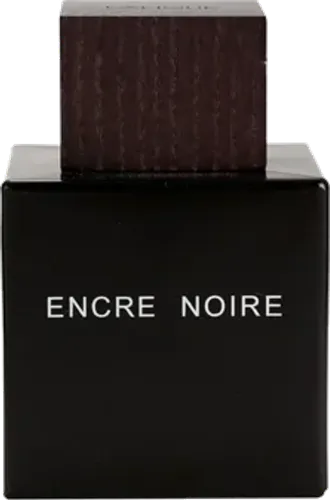
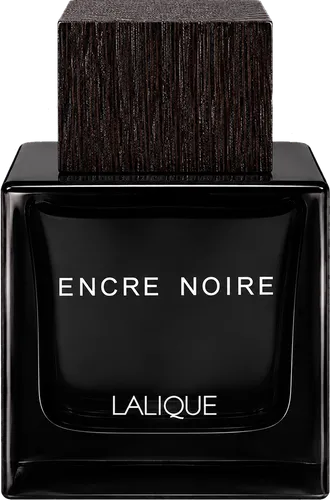
feat(catalogue): use the owner-supplied Encre Noire bottle image (local only)
Swapped in the higher-resolution bottle photo supplied by the owner
(1254x1254) in place of the retailer shot, and re-derived every dependent asset
from it:

* images/bottles/lalique-encre-noire.png - cut out to a transparent PNG. The
  supplied file was fully OPAQUE (alpha 255 everywhere); the apparent
  transparency was only the image viewer's backdrop. Background removal is a
  border flood-fill keyed on light+near-neutral pixels, so the dark bottle
  interior and the light highlights inside the glass are preserved. Trimmed and
  capped at 1024px, as the other cutouts are.
* webp + 500w siblings regenerated. These had to be deleted first: the image
  pipeline only writes when the new file is SMALLER than the existing one, so
  the stale, lower-resolution siblings would otherwise have survived.
* images/og/lalique-encre-noire.jpg regenerated from the new cutout.
* images/bottles/lalique-encre-noire.jpg - the new photo as the source image.
* logos/lalique.png - rebuilt cropped to the wordmark's ink on a 600x600 white
  canvas; webp sibling regenerated.

The brand logo remains a hairline wordmark, which is genuinely how the Lalique
mark looks - it reads faint at the 32x24 card chip. Attempts to synthesise a
heavier version produced speckle artefacts, so the crisp original is kept.

NOT PUSHED - committed locally only, as requested.

Verified: seo-gen idempotent; seo-audit 312 pages 0 failures; playwright 46
[…]

diff --git a/fragrance/lalique-encre-noire.html b/fragrance/lalique-encre-noire.html
@@ -364,7 +364,7 @@
 <body>
 <button type="button" class="page-theme" data-theme-toggle aria-label="Toggle dark mode"><span class="theme-ico theme-ico-moon">☾</span><span class="theme-ico theme-ico-sun">☀</span></button>
 <div class="wrap">
-<nav class="crumbs" aria-label="Breadcrumb"><a href="/">Home</a> <span aria-hidden="true">/</span> <a href="../brands/lalique.html">Lalique</a> <span aria-hidden="true">/</span> <span aria-current="page">Encre Noire</span></nav><div class="top"><div><div class="brand-chip">LALIQUE</div><h1>Lalique Encre Noire Decant in India</h1></div><a href="/">← Full collection</a></div><img class="product-bottle" src="../images/bottles/lalique-encre-noire.webp" alt="Lalique Encre Noire perfume bottle" width="675" height="1024" fetchpriority="high" decoding="async"><p class="lead">Encre Noire by Lalique as an authentic decant — a Woody, Earthy, Ink, Mossy, Smoky, Musk. an original creation. Ships across India with free shipping over ₹999 on 2+ decants.</p><div class="pills"><span class="pill g">Men</span><span class="pill ">In Stock</span></div><div class="card"><h2 style="margin-top:0">Prices (per ml gets cheaper as size grows)</h2><table><thead><tr><th>Size</th><th>Price</th><th>Per ml</th></tr></thead><tbody><tr><td>3ml</td><td class="n">₹119</td><td class="muted">₹40</td></tr><tr><td>5ml</td><td class="n">₹169</td><td class="muted">₹34</td></tr><tr><td>7.5ml</td><td class="n">₹259</td><td class="muted">₹35</td></tr><tr><td>10ml</td><td class="n">₹319</td><td class="muted">₹32</td></tr><tr><td>20ml</td><td class="n">₹589</td><td class="muted">₹29</td></tr><tr><td>30ml</td><td class="n">₹839</td><td class="muted">₹28</td></tr></tbody></table><p class="muted" style="margin-top:10px">Currently in stock for decants.</p></div><div class="cta"><h3>Order Encre Noire Today</h3><p>Copy your choice and message us on WhatsApp — we confirm stock and payment instantly.</p><a class="btn" href="https://wa.me/919355533509?text=Hi!%20I%20want%20to%20order%20a%20decant%20of%20Encre%20Noire%20by%20Lalique%3A%203ml%20%E2%82%B9119%2C%205ml%20%E2%82%B9169%2C%207.5ml%20%E2%82%B9259%2C%2010ml%20%E2%82%B9319%2C%2020ml%20%E2%82%B9589%2C%2030ml%20%E2%82%B9839">Order on WhatsApp</a><a class="btn ghost" href="tel:+919355533509">Call +91 93555 33509</a></div><h2>About Encre Noire</h2><div class="card"><p><strong>Notes / profile:</strong> Woody, Earthy, Ink, Mossy, Smoky, Musk.</p><p style="margin-top:8px"><strong>Best for:</strong> Fall / Winter seasons, day and evening, for office, special-occasion, evening, cold, mild weather.</p><p style="margin-top:8px"><strong>Mood:</strong> Mysterious, Bold, Elegant.</p><p style="margin-top:8px"><strong>Reminds me of:</strong> Original / unique.</p><p style="margin-top:8px"><strong>References:</strong> <a target="_blank" href='https://www.fragrantica.com/perfume/Lalique/Encre-Noire-1834.html'>Fragrantica</a> <a target="_blank" href='https://www.parfumo.com/Perfumes/lalique/encre-noire'>Parfumo</a></p></div><p class="muted">Learn <a href="/authenticity.html">how this decant is filled and verified</a>.</p><h2>How to wear Encre Noire</h2><div class="card"><p style="margin-top:8px"><strong>Season:</strong> Fall, Winter.</p><p style="margin-top:8px"><strong>Occasion:</strong> Office, Special-Occasion, Evening.</p><p style="margin-top:8px"><strong>Time of day:</strong> Day, Evening.</p><p style="margin-top:8px"><strong>Weather:</strong> Cold, Mild.</p><p style="margin-top:8px"><strong>Fragrance family:</strong> Woody, Earthy, Musk.</p><p style="margin-top:8px"><strong>Made for:</strong> Men.</p><p style="margin-top:8px">A 3ml decant is the smallest way to try this scent before committing to a larger size. New to decants? Read the <a href="/articles/decant-vs-full-bottle.html">decant vs full bottle guide</a>, or see <a href="/articles/make-perfume-last-longer.html">how to make perfume last longer</a>.</p></div><h2>Frequently Asked Questions</h2><details class="qa"><summary>Is Encre Noire by Lalique a clone or an original?</summary><p>It is an original fragrance in the Lalique catalogue, so there is no clone comparison involved.</p></details><details class="qa"><summary>How much does a decant of Encre Noire by Lalique cost in India?</summary><p>IRAM Perfume sells authentic decants of Encre Noire by Lalique at 3ml ₹119, 5ml ₹169, 7.5ml ₹259, 10ml ₹319, 20ml ₹589, 30ml ₹839. Shipping is free on 2-decant orders above ₹999. Full bottles are available on request.</p></details><details class="qa"><summary>When should I wear Encre Noire by Lalique?</summary><p>A men's fragrance, it works best during Fall / Winter seasons, day and evening, for office, special-occasion, evening, cold, mild weather. It leans mysterious,bold,elegant in character with a Woody, Earthy, Ink, Mossy, Smoky, Musk profile.</p></details><h2>Similar Fragrances You May Like</h2><div class="grid"><a class="rel" href="../fragrance/bvlgari-man-terrae-essence.html"><b>Man Terrae Essence</b><span class="muted">by Bvlgari</span><small>from ₹255</small></a><a class="rel" href="../fragrance/french-avenue-miraj-absolu.html"><b>Miraj Absolu</b><span class="muted">by French Avenue</span><small>from ₹145</small></a><a class="rel" href="../fragrance/fragrance-world-kohl.html"><b>Kohl</b><span class="muted">by Fragrance World</span><small>from ₹115</small></a><a class="rel" href="../fragrance/rasasi-hawas-lava-gold.html"><b>Hawas Lava Gold</b><span class="muted">by Rasasi</span><small>from ₹149</small></a><a class="rel" href="../fragrance/afnan-snoi-supremacy-not-only-intense.html"><b>Supremacy Not Only Intense</b><span class="muted">by Afnan</span><small>from ₹119</small></a><a class="rel" href="../fragrance/arabiyat-prestige-kohl-opulence.html"><b>Kohl Opulence</b><span class="muted">by Arabiyat Prestige</span><small>from ₹125</small></a></div><div class="foot">IRAM Perfume · +91 93555 33509 · <a href="mailto:perfumeiram@gmail.com">perfumeiram@gmail.com</a> · <a href="https://chat.whatsapp.com/JSWEIoCsFd96wzlRAeaewe">WhatsApp Community</a> · <a href="/articles/decant-vs-full-bottle.html">Decant guide</a> · <a href="/articles/summer-decants-under-500.html">Summer picks</a> · <a href="/">Back to all fragrances</a></div></div>
+<nav class="crumbs" aria-label="Breadcrumb"><a href="/">Home</a> <span aria-hidden="true">/</span> <a href="../brands/lalique.html">Lalique</a> <span aria-hidden="true">/</span> <span aria-current="page">Encre Noire</span></nav><div class="top"><div><div class="brand-chip">LALIQUE</div><h1>Lalique Encre Noire Decant in India</h1></div><a href="/">← Full collection</a></div><img class="product-bottle" src="../images/bottles/lalique-encre-noire.webp" alt="Lalique Encre Noire perfume bottle" width="676" height="1024" fetchpriority="high" decoding="async"><p class="lead">Encre Noire by Lalique as an authentic decant — a Woody, Earthy, Ink, Mossy, Smoky, Musk. an original creation. Ships across India with free shipping over ₹999 on 2+ decants.</p><div class="pills"><span class="pill g">Men</span><span class="pill ">In Stock</span></div><div class="card"><h2 style="margin-top:0">Prices (per ml gets cheaper as size grows)</h2><table><thead><tr><th>Size</th><th>Price</th><th>Per ml</th></tr></thead><tbody><tr><td>3ml</td><td class="n">₹119</td><td class="muted">₹40</td></tr><tr><td>5ml</td><td class="n">₹169</td><td class="muted">₹34</td></tr><tr><td>7.5ml</td><td class="n">₹259</td><td class="muted">₹35</td></tr><tr><td>10ml</td><td class="n">₹319</td><td class="muted">₹32</td></tr><tr><td>20ml</td><td class="n">₹589</td><td class="muted">₹29</td></tr><tr><td>30ml</td><td class="n">₹839</td><td class="muted">₹28</td></tr></tbody></table><p class="muted" style="margin-top:10px">Currently in stock for decants.</p></div><div class="cta"><h3>Order Encre Noire Today</h3><p>Copy your choice and message us on WhatsApp — we confirm stock and payment instantly.</p><a class="btn" href="https://wa.me/919355533509?text=Hi!%20I%20want%20to%20order%20a%20decant%20of%20Encre%20Noire%20by%20Lalique%3A%203ml%20%E2%82%B9119%2C%205ml%20%E2%82%B9169%2C%207.5ml%20%E2%82%B9259%2C%2010ml%20%E2%82%B9319%2C%2020ml%20%E2%82%B9589%2C%2030ml%20%E2%82%B9839">Order on WhatsApp</a><a class="btn ghost" href="tel:+919355533509">Call +91 93555 33509</a></div><h2>About Encre Noire</h2><div class="card"><p><strong>Notes / profile:</strong> Woody, Earthy, Ink, Mossy, Smoky, Musk.</p><p style="margin-top:8px"><strong>Best for:</strong> Fall / Winter seasons, day and evening, for office, special-occasion, evening, cold, mild weather.</p><p style="margin-top:8px"><strong>Mood:</strong> Mysterious, Bold, Elegant.</p><p style="margin-top:8px"><strong>Reminds me of:</strong> Original / unique.</p><p style="margin-top:8px"><strong>References:</strong> <a target="_blank" href='https://www.fragrantica.com/perfume/Lalique/Encre-Noire-1834.html'>Fragrantica</a> <a target="_blank" href='https://www.parfumo.com/Perfumes/lalique/encre-noire'>Parfumo</a></p></div><p class="muted">Learn <a href="/authenticity.html">how this decant is filled and verified</a>.</p><h2>How to wear Encre Noire</h2><div class="card"><p style="margin-top:8px"><strong>Season:</strong> Fall, Winter.</p><p style="margin-top:8px"><strong>Occasion:</strong> Office, Special-Occasion, Evening.</p><p style="margin-top:8px"><strong>Time of day:</strong> Day, Evening.</p><p style="margin-top:8px"><strong>Weather:</strong> Cold, Mild.</p><p style="margin-top:8px"><strong>Fragrance family:</strong> Woody, Earthy, Musk.</p><p style="margin-top:8px"><strong>Made for:</strong> Men.</p><p style="margin-top:8px">A 3ml decant is the smallest way to try this scent before committing to a larger size. New to decants? Read the <a href="/articles/decant-vs-full-bottle.html">decant vs full bottle guide</a>, or see <a href="/articles/make-perfume-last-longer.html">how to make perfume last longer</a>.</p></div><h2>Frequently Asked Questions</h2><details class="qa"><summary>Is Encre Noire by Lalique a clone or an original?</summary><p>It is an original fragrance in the Lalique catalogue, so there is no clone comparison involved.</p></details><details class="qa"><summary>How much does a decant of Encre Noire by Lalique cost in India?</summary><p>IRAM Perfume sells authentic decants of Encre Noire by Lalique at 3ml ₹119, 5ml ₹169, 7.5ml ₹259, 10ml ₹319, 20ml ₹589, 30ml ₹839. Shipping is free on 2-decant orders above ₹999. Full bottles are available on request.</p></details><details class="qa"><summary>When should I wear Encre Noire by Lalique?</summary><p>A men's fragrance, it works best during Fall / Winter seasons, day and evening, for office, special-occasion, evening, cold, mild weather. It leans mysterious,bold,elegant in character with a Woody, Earthy, Ink, Mossy, Smoky, Musk profile.</p></details><h2>Similar Fragrances You May Like</h2><div class="grid"><a class="rel" href="../fragrance/bvlgari-man-terrae-essence.html"><b>Man Terrae Essence</b><span class="muted">by Bvlgari</span><small>from ₹255</small></a><a class="rel" href="../fragrance/french-avenue-miraj-absolu.html"><b>Miraj Absolu</b><span class="muted">by French Avenue</span><small>from ₹145</small></a><a class="rel" href="../fragrance/fragrance-world-kohl.html"><b>Kohl</b><span class="muted">by Fragrance World</span><small>from ₹115</small></a><a class="rel" href="../fragrance/rasasi-hawas-lava-gold.html"><b>Hawas Lava Gold</b><span class="muted">by Rasasi</span><small>from ₹149</small></a><a class="rel" href="../fragrance/afnan-snoi-supremacy-not-only-intense.html"><b>Supremacy Not Only Intense</b><span class="muted">by Afnan</span><small>from ₹119</small></a><a class="rel" href="../fragrance/arabiyat-prestige-kohl-opulence.html"><b>Kohl Opulence</b><span class="muted">by Arabiyat Prestige</span><small>from ₹125</small></a></div><div class="foot">IRAM Perfume · +91 93555 33509 · <a href="mailto:perfumeiram@gmail.com">perfumeiram@gmail.com</a> · <a href="https://chat.whatsapp.com/JSWEIoCsFd96wzlRAeaewe">WhatsApp Community</a> · <a href="/articles/decant-vs-full-bottle.html">Decant guide</a> · <a href="/articles/summer-decants-under-500.html">Summer picks</a> · <a href="/">Back to all fragrances</a></div></div>
 <script>(function(){var root=document.documentElement;document.querySelectorAll('[data-theme-toggle]').forEach(function(t){t.addEventListener('click',function(){var dark=root.getAttribute('data-theme')==='dark';if(dark){root.removeAttribute('data-theme');try{localStorage.setItem('theme','light')}catch(e){}}else{root.setAttribute('data-theme','dark');try{localStorage.setItem('theme','dark')}catch(e){}}})})})();</script>
 </body>
 </html>

diff --git a/index.html b/index.html
@@ -2093,7 +2093,7 @@
 <div class="frag-card" data-pid="Versace|The Dreamer" data-product="versace-the-dreamer" data-division="Designer" data-scent="lavender,tobacco,woody,aromatic" data-season="fall,winter" data-occasion="date-night,office" data-time="day,evening" data-weather="cold,mild" data-mood="elegant,bold" data-family="aromatic,amber" data-brand="Versace" data-price="125" data-gender="Men"><div class="pc-media" role="button" tabindex="0" data-open><span class="pc-ph" aria-hidden="true"></span><img class="pc-img" alt="The Dreamer" loading="lazy" width="1024" height="1024" data-img-base="images/bottles/versace-the-dreamer"><button type="button" class="pc-wish" aria-label="Save The Dreamer" data-wish></button><button type="button" class="pc-cmp" aria-label="Add The Dreamer to compare" data-cmp aria-pressed="false"></button><span class="pc-gender pc-gender-men">Men</span></div><div class="card-top"><img src="logos/versace.webp" alt="" class="card-brand-logo" width="250" height="250" loading="lazy"><span class="card-brand-name">Versace</span></div><button type="button" class="card-frag-name pc-name" data-open>The Dreamer</button><span class="card-inspired pc-inspired">aromatic · amber</span><div class="pc-price-line pc-has-range"><span class="pc-from"><span class="pc-fsz">3ml</span><span class="pc-fw">from</span> <b>₹125</b></span><span class="pc-30">30ml ₹899</span><span class="pc-rmax">30ml <b>₹899</b></span></div><div class="card-links"><a target="_blank" href='https://www.fragrantica.com/perfume/Versace/The-Dreamer-59417.html'>Fragrantica</a> <a target="_blank" href='https://www.parfumo.com/Perfumes/Versace/the-dreamer'>Parfumo</a></div><button type="button" class="pc-add" data-open >Add</button></div>
 <div class="frag-card" data-pid="Versace|Eros" data-product="versace-eros" data-division="Designer" data-scent="mint,sweet,fresh" data-season="fall,winter,spring" data-occasion="date-night,party" data-time="evening,night" data-weather="cold,mild" data-mood="bold,sexy" data-family="sweet,vanilla" data-added="2026-10-11" data-brand="Versace" data-price="155" data-gender="Men"><div class="pc-media" role="button" tabindex="0" data-open><span class="pc-ph" aria-hidden="true"></span><img class="pc-img" alt="Eros" loading="lazy" width="582" height="796" data-img-base="images/bottles/versace-eros"><button type="button" class="pc-wish" aria-label="Save Eros" data-wish></button><button type="button" class="pc-cmp" aria-label="Add Eros to compare" data-cmp aria-pressed="false"></button><span class="pc-gender pc-gender-men">Men</span></div><div class="card-top"><img src="logos/versace.webp" alt="" class="card-brand-logo" width="250" height="250" loading="lazy"><span class="card-brand-name">Versace</span></div><button type="button" class="card-frag-name pc-name" data-open>Eros</button><span class="card-inspired pc-inspired">sweet · vanilla</span><div class="pc-price-line pc-has-range"><span class="pc-from"><span class="pc-fsz">3ml</span><span class="pc-fw">from</span> <b>₹155</b></span><span class="pc-30">30ml ₹1,199</span><span class="pc-rmax">30ml <b>₹1,199</b></span></div><div class="card-links"><a target="_blank" href='https://www.fragrantica.com/perfume/Versace/Eros-16657.html'>Fragrantica</a> <a target="_blank" href='https://www.parfumo.com/Perfumes/Versace/Eros_Eau_de_Toilette'>Parfumo</a></div><button type="button" class="pc-add" data-open >Add</button></div>
 <div class="frag-card" data-pid="YSL|Myself" data-product="ysl-myself" data-division="Designer" data-scent="fresh,aromatic,woody" data-season="spring,summer,fall" data-occasion="daily,date-night,office" data-time="day,evening" data-weather="hot,mild" data-mood="clean,confident,fresh" data-family="floral,fresh,woody" data-added="2026-10-08" data-brand="YSL" data-price="265" data-gender="Men"><div class="pc-media" role="button" tabindex="0" data-open><span class="pc-ph" aria-hidden="true"></span><img class="pc-img" alt="MYSLF Eau de Parfum" loading="lazy" width="221" height="751" data-img-base="images/bottles/ysl-myself"><button type="button" class="pc-wish" aria-label="Save MYSLF Eau de Parfum" data-wish></button><button type="button" class="pc-cmp" aria-label="Add MYSLF Eau de Parfum to compare" data-cmp aria-pressed="false"></button><span class="pc-gender pc-gender-men">Men</span></div><div class="card-top"><img src="logos/ysl.webp" alt="" class="card-brand-logo" width="93" height="185" loading="lazy"><span class="card-brand-name">YSL</span></div><button type="button" class="card-frag-name pc-name" data-open>MYSLF Eau de Parfum</button><span class="card-inspired pc-inspired">floral · fresh</span><div class="pc-price-line pc-has-range"><span class="pc-from"><span class="pc-fsz">3ml</span><span class="pc-fw">from</span> <b>₹265</b></span><span class="pc-30">30ml ₹2,279</span><span class="pc-rmax">30ml <b>₹2,279</b></span></div><div class="card-links"><a target="_blank" href='https://www.fragrantica.com/perfume/Yves-Saint-Laurent/MYSLF-Eau-de-Parfum-84094.html'>Fragrantica</a> <a target="_blank" href='https://www.parfumo.com/Perfumes/Yves_Saint_Laurent/myslf-eau-de-parfum'>Parfumo</a></div><button type="button" class="pc-add" data-open >Add</button></div>
-<div class="frag-card" data-pid="Lalique|Encre Noire" data-product="lalique-encre-noire" data-division="Designer" data-scent="woody,earthy,ink,mossy,smoky,musk" data-season="fall,winter" data-occasion="office,special-occasion,evening" data-time="day,evening" data-weather="cold,mild" data-mood="mysterious,bold,elegant" data-family="woody,earthy,musk" data-added="2026-11-24" data-brand="Lalique" data-price="119" data-gender="Men"><div class="pc-media" role="button" tabindex="0" data-open><span class="pc-ph" aria-hidden="true"></span><img class="pc-img" alt="Encre Noire" loading="lazy" width="675" height="1024" data-img-base="images/bottles/lalique-encre-noire"><button type="button" class="pc-wish" aria-label="Save Encre Noire" data-wish></button><button type="button" class="pc-cmp" aria-label="Add Encre Noire to compare" data-cmp aria-pressed="false"></button><span class="pc-gender pc-gender-men">Men</span></div><div class="card-top"><img src="logos/lalique.webp" alt="" class="card-brand-logo" width="600" height="600" loading="lazy"><span class="card-brand-name">Lalique</span></div><button type="button" class="card-frag-name pc-name" data-open>Encre Noire</button><span class="card-inspired pc-inspired">woody · earthy</span><div class="pc-price-line pc-has-range"><span class="pc-from"><span class="pc-fsz">3ml</span><span class="pc-fw">from</span> <b>₹119</b></span><span class="pc-30">30ml ₹839</span><span class="pc-rmax">30ml <b>₹839</b></span></div><div class="card-links"><a target="_blank" href='https://www.fragrantica.com/perfume/Lalique/Encre-Noire-1834.html'>Fragrantica</a> <a target="_blank" href='https://www.parfumo.com/Perfumes/lalique/encre-noire'>Parfumo</a></div><button type="button" class="pc-add" data-open >Add</button></div></div>
+<div class="frag-card" data-pid="Lalique|Encre Noire" data-product="lalique-encre-noire" data-division="Designer" data-scent="woody,earthy,ink,mossy,smoky,musk" data-season="fall,winter" data-occasion="office,special-occasion,evening" data-time="day,evening" data-weather="cold,mild" data-mood="mysterious,bold,elegant" data-family="woody,earthy,musk" data-added="2026-11-24" data-brand="Lalique" data-price="119" data-gender="Men"><div class="pc-media" role="button" tabindex="0" data-open><span class="pc-ph" aria-hidden="true"></span><img class="pc-img" alt="Encre Noire" loading="lazy" width="676" height="1024" data-img-base="images/bottles/lalique-encre-noire"><button type="button" class="pc-wish" aria-label="Save Encre Noire" data-wish></button><button type="button" class="pc-cmp" aria-label="Add Encre Noire to compare" data-cmp aria-pressed="false"></button><span class="pc-gender pc-gender-men">Men</span></div><div class="card-top"><img src="logos/lalique.webp" alt="" class="card-brand-logo" width="600" height="600" loading="lazy"><span class="card-brand-name">Lalique</span></div><button type="button" class="card-frag-name pc-name" data-open>Encre Noire</button><span class="card-inspired pc-inspired">woody · earthy</span><div class="pc-price-line pc-has-range"><span class="pc-from"><span class="pc-fsz">3ml</span><span class="pc-fw">from</span> <b>₹119</b></span><span class="pc-30">30ml ₹839</span><span class="pc-rmax">30ml <b>₹839</b></span></div><div class="card-links"><a target="_blank" href='https://www.fragrantica.com/perfume/Lalique/Encre-Noire-1834.html'>Fragrantica</a> <a target="_blank" href='https://www.parfumo.com/Perfumes/lalique/encre-noire'>Parfumo</a></div><button type="button" class="pc-add" data-open >Add</button></div></div>
 <!--/CARDS:Designer-->
 
 </div>
